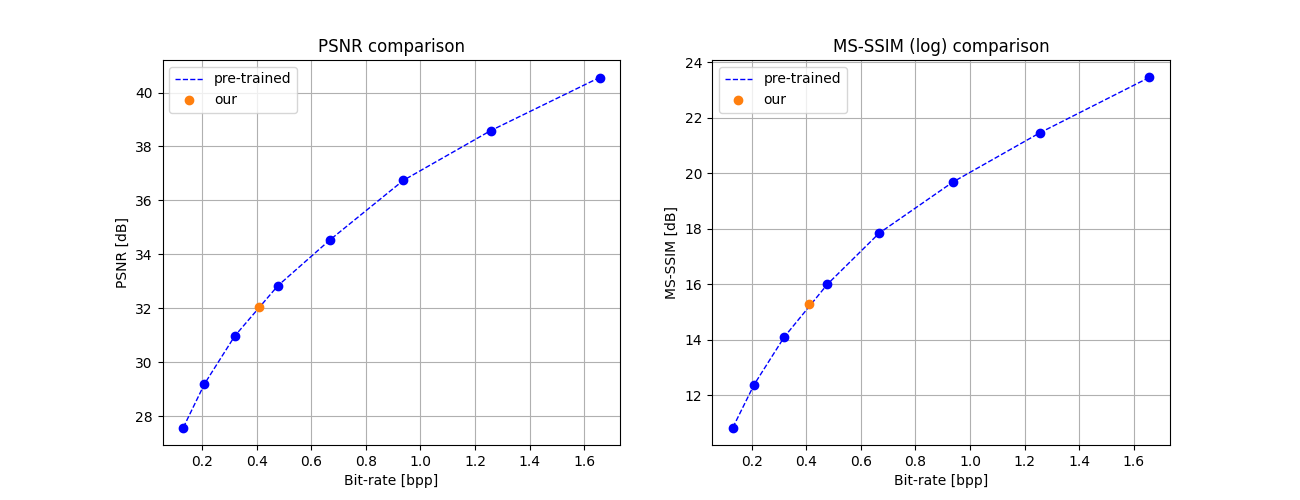
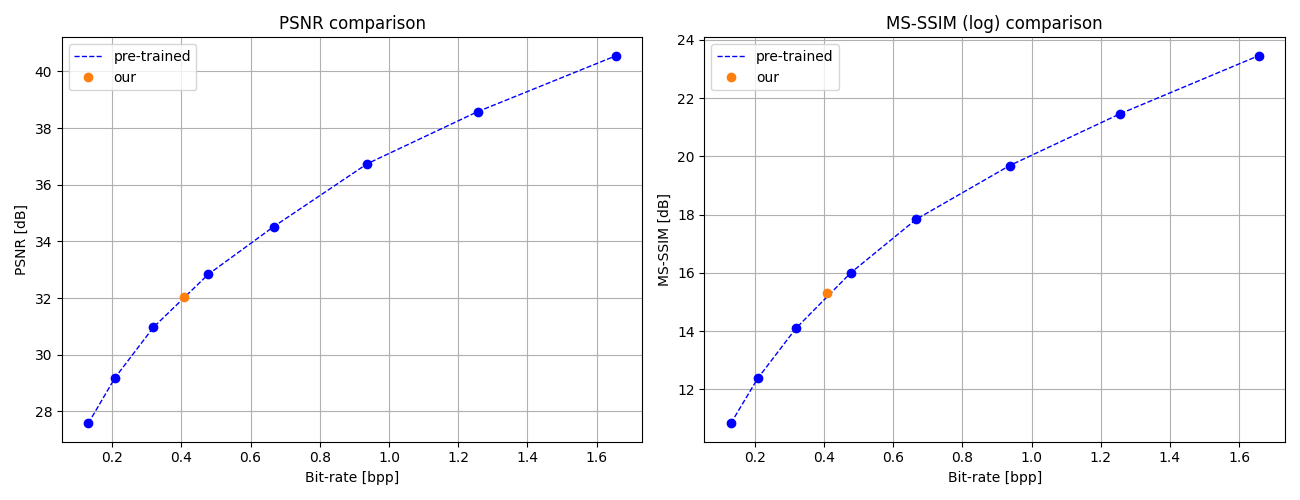
R2: - Update balle_repro_6

diff --git a/balle_reproduction/test.py b/balle_reproduction/test.py
@@ -215,7 +215,7 @@ for img_name in dataset_imgs:
                         for out in pretrained_outputs.values()]
     
     # Compare networks
-    fix, axes = plt.subplots((len(reconstructions) + 2) // 3, 3,
+    fig, axes = plt.subplots((len(reconstructions) + 2) // 3, 3,
                              figsize=(16, 12))
     for ax in axes.ravel():
         ax.axis("off")
@@ -226,6 +226,8 @@ for img_name in dataset_imgs:
     for i, (name, rec) in enumerate(reconstructions.items()):
         axes.ravel()[i + 1].imshow(rec.crop((468, 212, 768, 512))) # cropped for easy comparison
         axes.ravel()[i + 1].title.set_text(name)
+
+    fig.tight_layout()
 
     plt.savefig(os.path.join(output_folder,
                              f"networks_{dataset_name}_{img_name}.png"))
@@ -329,6 +331,8 @@ for img_name in dataset_imgs:
     axes[0].legend(loc="best")
     axes[1].legend(loc="best")
 
+    fig.tight_layout()
+
     plt.savefig(os.path.join(output_folder,
                              f"curve_{dataset_name}_{img_name}.png"))
     plt.close()
@@ -412,6 +416,8 @@ for name, m in avg_metrics.items():
 
 axes[0].legend(loc="best")
 axes[1].legend(loc="best")
+
+fig.tight_layout()
 
 plt.savefig(os.path.join(output_folder,
                          f"avg_curve_{dataset_name}.png"))
